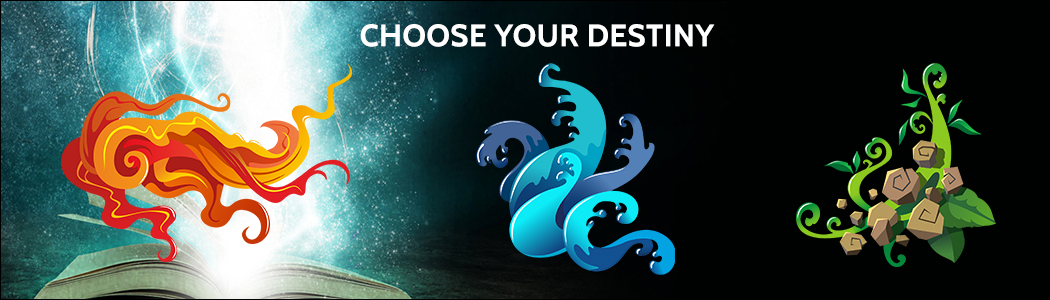
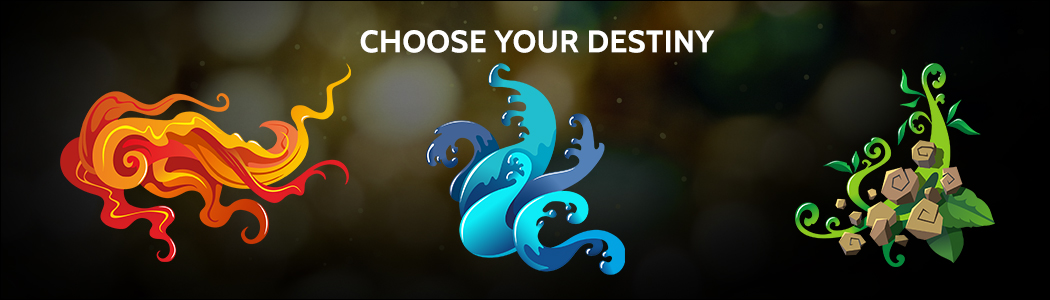
updated assets

diff --git a/assets/rock-paper-scissors/fire-water-earth-cute/theme.css b/assets/rock-paper-scissors/fire-water-earth-cute/theme.css
@@ -1,6 +1,6 @@
 #game {
-  color: black;
-  background-color: #8e94a4;
+  color: white;
+  background-color: black;
   background-size: cover;
 }
 
@@ -21,5 +21,5 @@
 }
 
 .title {
-  color: #a55242;
+  color: white;
 }
